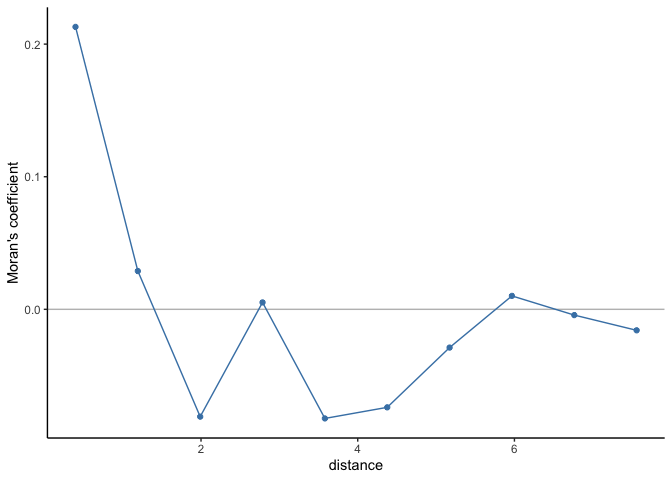
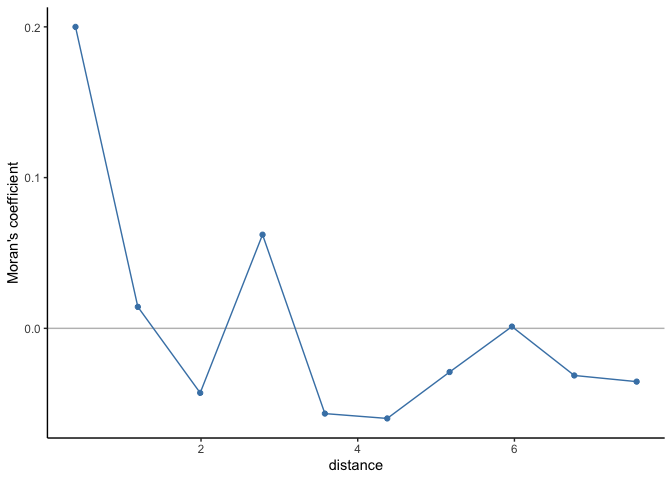
knit Erika's lab 5 fixes

diff --git a/_site/lab-5/index.html b/_site/lab-5/index.html
@@ -108,6 +108,28 @@ images displayed.</p>
 ##     Matern
 </code></pre></div></div>
 
+<div class="language-r highlighter-rouge"><div class="highlight"><pre class="highlight"><code><span class="n">library</span><span class="p">(</span><span class="n">geodata</span><span class="p">)</span><span class="w">
+</span></code></pre></div></div>
+
+<div class="language-plaintext highlighter-rouge"><div class="highlight"><pre class="highlight"><code>## Loading required package: terra
+
+## terra 1.7.18
+
+## 
+## Attaching package: 'terra'
+
+## The following object is masked from 'package:fields':
+## 
+##     describe
+
+## 
+## Attaching package: 'geodata'
+
+## The following object is masked from 'package:fields':
+## 
+##     world
+</code></pre></div></div>
+
 <div class="language-r highlighter-rouge"><div class="highlight"><pre class="highlight"><code><span class="n">source</span><span class="p">(</span><span class="s2">"https://raw.githubusercontent.com/HughSt/HughSt.github.io/master/course_materials/week6/Lab_files/R%20Files/background_functions.R"</span><span class="p">)</span><span class="w">
 </span></code></pre></div></div>
 
@@ -474,8 +496,13 @@ data into \(k\) subsets. Then we train the model \(k\) times, each one
 using only 4 of the groups, and computing some performance metric on the
 left out group. The performance metric could be the sum of squared
 errors or any other sensible metric depending on the application. Below
-we show a diagram of a 5-fold cross validation.
-<img src="../images/week-6/k_fold_cv-1.png" alt="" /></p>
+we show a diagram of a 5-fold cross validation.</p>
+
+<div class="language-plaintext highlighter-rouge"><div class="highlight"><pre class="highlight"><code>## Warning: Using `size` aesthetic for lines was deprecated in ggplot2 3.4.0.
+## ℹ Please use `linewidth` instead.
+</code></pre></div></div>
+
+<p><img src="../images/week-6/k_fold_cv-1.png" alt="" /></p>
 
 <h3 id="glm-surface-trend-vs-geostatistic-model">GLM Surface Trend vs Geostatistic Model</h3>
 
@@ -547,11 +574,15 @@ of successes out of a number of trials.</p>
 
 <div class="language-r highlighter-rouge"><div class="highlight"><pre class="highlight"><code><span class="c1"># Load data</span><span class="w">
 </span><span class="n">ETH_malaria_data</span><span class="w"> </span><span class="o">&lt;-</span><span class="w"> </span><span class="n">read.csv</span><span class="p">(</span><span class="s2">"https://raw.githubusercontent.com/phw272c/phw272c.github.io/master/data/mal_data_eth_2009_no_dups.csv"</span><span class="p">,</span><span class="w"> </span><span class="n">header</span><span class="o">=</span><span class="nb">T</span><span class="p">)</span><span class="w"> </span><span class="c1"># Case data</span><span class="w">
-</span><span class="n">ETH_Adm_1</span><span class="w"> </span><span class="o">&lt;-</span><span class="w"> </span><span class="n">raster</span><span class="o">::</span><span class="n">getData</span><span class="p">(</span><span class="s2">"GADM"</span><span class="p">,</span><span class="w"> </span><span class="n">country</span><span class="o">=</span><span class="s2">"ETH"</span><span class="p">,</span><span class="w"> </span><span class="n">level</span><span class="o">=</span><span class="m">1</span><span class="p">)</span><span class="w"> </span><span class="c1"># Admin boundaries</span><span class="w">
+</span><span class="c1">#OLD ETH_Adm_1 &lt;- raster::getData("GADM", country="ETH", level=1) # Admin boundaries</span><span class="w">
+</span><span class="c1">#NEW</span><span class="w">
+</span><span class="n">ETH_Adm_1</span><span class="w"> </span><span class="o">&lt;-</span><span class="w"> </span><span class="n">as</span><span class="p">(</span><span class="n">gadm</span><span class="p">(</span><span class="n">country</span><span class="w"> </span><span class="o">=</span><span class="w"> </span><span class="s2">"ETH"</span><span class="p">,</span><span class="w"> </span><span class="n">level</span><span class="o">=</span><span class="m">1</span><span class="p">,</span><span class="w"> </span><span class="n">path</span><span class="o">=</span><span class="n">tempdir</span><span class="p">()),</span><span class="w"> </span><span class="s2">"Spatial"</span><span class="p">)</span><span class="w">
+</span><span class="nf">class</span><span class="p">(</span><span class="n">ETH_Adm_1</span><span class="p">)</span><span class="w">
 </span></code></pre></div></div>
 
-<div class="language-plaintext highlighter-rouge"><div class="highlight"><pre class="highlight"><code>## Warning in raster::getData("GADM", country = "ETH", level = 1): getData will be removed in a future version of raster
-## . Please use the geodata package instead
+<div class="language-plaintext highlighter-rouge"><div class="highlight"><pre class="highlight"><code>## [1] "SpatialPolygonsDataFrame"
+## attr(,"package")
+## [1] "sp"
 </code></pre></div></div>
 
 <div class="language-r highlighter-rouge"><div class="highlight"><pre class="highlight"><code><span class="n">Oromia</span><span class="w"> </span><span class="o">&lt;-</span><span class="w"> </span><span class="n">subset</span><span class="p">(</span><span class="n">ETH_Adm_1</span><span class="p">,</span><span class="w"> </span><span class="n">NAME_1</span><span class="o">==</span><span class="s2">"Oromia"</span><span class="p">)</span><span class="w">
@@ -567,14 +598,13 @@ of successes out of a number of trials.</p>
 first obtain predictors as rasters at a common resolution/extent. In
 this example, we are going to use two of the
 <a href="https://www.worldclim.org/bioclim">Bioclim</a> layers, accessible using
-the <code class="language-plaintext highlighter-rouge">getData</code> function in the raster package.</p>
+the geodata package.</p>
 
-<div class="language-r highlighter-rouge"><div class="highlight"><pre class="highlight"><code><span class="n">bioclim_layers</span><span class="w"> </span><span class="o">&lt;-</span><span class="w"> </span><span class="n">getData</span><span class="p">(</span><span class="s1">'worldclim'</span><span class="p">,</span><span class="w"> </span><span class="n">var</span><span class="o">=</span><span class="s1">'bio'</span><span class="p">,</span><span class="w"> </span><span class="n">res</span><span class="o">=</span><span class="m">0.5</span><span class="p">,</span><span class="w"> </span><span class="n">lon</span><span class="o">=</span><span class="m">38.7578</span><span class="p">,</span><span class="w"> </span><span class="n">lat</span><span class="o">=</span><span class="m">8.9806</span><span class="p">)</span><span class="w"> </span><span class="c1"># lng/lat for Addis Ababa</span><span class="w">
+<div class="language-r highlighter-rouge"><div class="highlight"><pre class="highlight"><code><span class="c1">#OLD bioclim_layers &lt;- getData('worldclim', var='bio', res=0.5, lon=38.7578, lat=8.9806) # lng/lat for Addis Ababa</span><span class="w">
+</span><span class="c1">#NEW</span><span class="w">
+
+</span><span class="n">bioclim_layers</span><span class="w"> </span><span class="o">&lt;-</span><span class="w"> </span><span class="n">as</span><span class="p">(</span><span class="n">worldclim_tile</span><span class="p">(</span><span class="n">var</span><span class="w"> </span><span class="o">=</span><span class="w"> </span><span class="s2">"bio"</span><span class="p">,</span><span class="w"> </span><span class="n">res</span><span class="w"> </span><span class="o">=</span><span class="w"> </span><span class="m">0.5</span><span class="p">,</span><span class="w"> </span><span class="n">lon</span><span class="w"> </span><span class="o">=</span><span class="w"> </span><span class="m">38.7578</span><span class="p">,</span><span class="w"> </span><span class="n">lat</span><span class="w"> </span><span class="o">=</span><span class="w"> </span><span class="m">8.9806</span><span class="p">,</span><span class="w"> </span><span class="n">path</span><span class="o">=</span><span class="n">tempdir</span><span class="p">()),</span><span class="w"> </span><span class="s2">"Raster"</span><span class="p">)</span><span class="w"> </span><span class="c1"># lng/lat for Addis Ababa</span><span class="w">
 </span></code></pre></div></div>
-
-<div class="language-plaintext highlighter-rouge"><div class="highlight"><pre class="highlight"><code>## Warning in getData("worldclim", var = "bio", res = 0.5, lon = 38.7578, lat = 8.9806): getData will be removed in a future version of raster
-## . Please use the geodata package instead
-</code></pre></div></div>
 
 <p>We can crop these layers to make them a little easier to handle</p>
 
@@ -602,13 +632,13 @@ precipitation) at the observation points</p>
 ## Estimation of fixed effects by ML.
 ## family: binomial( link = logit ) 
 ##  ------------ Fixed effects (beta) ------------
-##               Estimate  Cond. SE t-value
-## (Intercept) -8.3846190 1.6273198  -5.152
-## bioclim1     0.0113079 0.0071619   1.579
-## bioclim12    0.0003218 0.0002892   1.113
+##             Estimate Cond. SE t-value
+## (Intercept) -17.6362  1.72185 -10.243
+## bioclim1      0.2119  0.05994   3.535
+## bioclim12     0.5422  0.08743   6.202
 ##  ------------- Likelihood values  -------------
-##                        logLik
-## logL               : -225.369
+##                         logLik
+## logL               : -204.0366
 </code></pre></div></div>
 
 <p>And take a look at spatial autocorrelation in the residuals</p>
@@ -624,16 +654,16 @@ precipitation) at the observation points</p>
 
 <div class="language-plaintext highlighter-rouge"><div class="highlight"><pre class="highlight"><code>## Moran I statistic 
 ##       dist.class         coef      p.value    n
-##  [1,]  0.3979675  0.212998345 5.839497e-18 3904
-##  [2,]  1.1937029  0.028869826 3.706873e-02 5192
-##  [3,]  1.9894379 -0.080946573 9.999812e-01 5680
-##  [4,]  2.7851728  0.005202035 3.088693e-01 4976
-##  [5,]  3.5809077 -0.082287239 9.999446e-01 5078
-##  [6,]  4.3766427 -0.073913147 9.999694e-01 5896
-##  [7,]  5.1723776 -0.028848437 8.762919e-01 4890
-##  [8,]  5.9681126  0.010132650 2.753585e-01 3694
-##  [9,]  6.7638475 -0.004350064 4.290928e-01 1412
-## [10,]  7.5595825 -0.015829056 4.321541e-01  284
+##  [1,]  0.3979675  0.199980480 8.240172e-16 3904
+##  [2,]  1.1937029  0.014247182 1.577427e-01 5192
+##  [3,]  1.9894379 -0.042814027 9.790294e-01 5680
+##  [4,]  2.7851728  0.062142108 5.417610e-04 4976
+##  [5,]  3.5809077 -0.056543628 9.946848e-01 5078
+##  [6,]  4.3766427 -0.059764427 9.991960e-01 5896
+##  [7,]  5.1723776 -0.028973619 8.756756e-01 4890
+##  [8,]  5.9681126  0.001175213 3.946801e-01 3694
+##  [9,]  6.7638475 -0.031256195 7.395092e-01 1412
+## [10,]  7.5595825 -0.035348306 5.503216e-01  284
 </code></pre></div></div>
 
 <div class="language-r highlighter-rouge"><div class="highlight"><pre class="highlight"><code><span class="c1"># Plot correlogram</span><span class="w">
@@ -666,22 +696,22 @@ spatial model.</p>
 ## Estimation of lambda by 'outer' ML, maximizing logL.
 ## family: binomial( link = logit ) 
 ##  ------------ Fixed effects (beta) ------------
-##               Estimate Cond. SE t-value
-## (Intercept) -14.045555 6.035854 -2.3270
-## bioclim1      0.029817 0.024988  1.1932
-## bioclim12    -0.000203 0.001364 -0.1489
+##             Estimate Cond. SE t-value
+## (Intercept) -19.0181   6.8474 -2.7774
+## bioclim1      0.3693   0.2179  1.6945
+## bioclim12     0.2473   0.3450  0.7169
 ##  --------------- Random effects ---------------
 ## Family: gaussian( link = identity ) 
 ##                    --- Correlation parameters:
-##     1.nu    1.rho 
-## 0.439513 1.659388 
+##      1.nu     1.rho 
+## 0.4388976 1.7275925 
 ##            --- Variance parameters ('lambda'):
 ## lambda = var(u) for u ~ Gaussian; 
-##    latitude .  :  4.695  
+##    latitude .  :  4.383  
 ## # of obs: 203; # of groups: latitude ., 203 
 ##  ------------- Likelihood values  -------------
 ##                         logLik
-## logL       (p_v(h)): -106.4314
+## logL       (p_v(h)): -105.8655
 </code></pre></div></div>
 
 <p>We can generate a quick scatter plot of observed vs fitted values</p>
@@ -765,6 +795,9 @@ below.</p>
 </span><span class="p">}</span><span class="w">
 </span></code></pre></div></div>
 
+<div class="language-plaintext highlighter-rouge"><div class="highlight"><pre class="highlight"><code>## Iterative algorithm converges slowly. See help('convergence') for suggestions.
+</code></pre></div></div>
+
 <p>Here is a summary of the results. The covariates are indexed as: 1 -
 bioclim1, 2 - bioclim12.</p>
 
@@ -772,8 +805,8 @@ bioclim1, 2 - bioclim12.</p>
 </span></code></pre></div></div>
 
 <div class="language-plaintext highlighter-rouge"><div class="highlight"><pre class="highlight"><code>##        MSE Covariates
-## 1 1.462020        1,2
-## 2 1.467664          1
+## 1 1.482463        1,2
+## 2 1.532784          1
 </code></pre></div></div>
 
 <p>According to this results the best model according to the lowest MSE is

diff --git a/_posts/2023-03-09-lab-5.md b/_posts/2023-03-09-lab-5.md
@@ -88,6 +88,28 @@ library(spaMM)
     ##     Matern
 
 ``` r
+library(geodata)
+```
+
+    ## Loading required package: terra
+
+    ## terra 1.7.18
+
+    ## 
+    ## Attaching package: 'terra'
+
+    ## The following object is masked from 'package:fields':
+    ## 
+    ##     describe
+
+    ## 
+    ## Attaching package: 'geodata'
+
+    ## The following object is masked from 'package:fields':
+    ## 
+    ##     world
+
+``` r
 source("https://raw.githubusercontent.com/HughSt/HughSt.github.io/master/course_materials/week6/Lab_files/R%20Files/background_functions.R")
 ```
 
@@ -460,6 +482,10 @@ using only 4 of the groups, and computing some performance metric on the
 left out group. The performance metric could be the sum of squared
 errors or any other sensible metric depending on the application. Below
 we show a diagram of a 5-fold cross validation.
+
+    ## Warning: Using `size` aesthetic for lines was deprecated in ggplot2 3.4.0.
+    ## ℹ Please use `linewidth` instead.
+
 ![](../images/week-6/k_fold_cv-1.png)
 
 ### GLM Surface Trend vs Geostatistic Model
@@ -534,11 +560,15 @@ of successes out of a number of trials.
 ``` r
 # Load data
 ETH_malaria_data <- read.csv("https://raw.githubusercontent.com/phw272c/phw272c.github.io/master/data/mal_data_eth_2009_no_dups.csv", header=T) # Case data
-ETH_Adm_1 <- raster::getData("GADM", country="ETH", level=1) # Admin boundaries
+#OLD ETH_Adm_1 <- raster::getData("GADM", country="ETH", level=1) # Admin boundaries
+#NEW
+ETH_Adm_1 <- as(gadm(country = "ETH", level=1, path=tempdir()), "Spatial")
+class(ETH_Adm_1)
 ```
 
-    ## Warning in raster::getData("GADM", country = "ETH", level = 1): getData will be removed in a future version of raster
-    ## . Please use the geodata package instead
+    ## [1] "SpatialPolygonsDataFrame"
+    ## attr(,"package")
+    ## [1] "sp"
 
 ``` r
 Oromia <- subset(ETH_Adm_1, NAME_1=="Oromia")
@@ -554,14 +584,14 @@ To model and predict malaria prevalence across Oromia State, we need to
 first obtain predictors as rasters at a common resolution/extent. In
 this example, we are going to use two of the
 [Bioclim](https://www.worldclim.org/bioclim) layers, accessible using
-the `getData` function in the raster package.
+the geodata package.
 
 ``` r
-bioclim_layers <- getData('worldclim', var='bio', res=0.5, lon=38.7578, lat=8.9806) # lng/lat for Addis Ababa
-```
+#OLD bioclim_layers <- getData('worldclim', var='bio', res=0.5, lon=38.7578, lat=8.9806) # lng/lat for Addis Ababa
+#NEW
 
-    ## Warning in getData("worldclim", var = "bio", res = 0.5, lon = 38.7578, lat = 8.9806): getData will be removed in a future version of raster
-    ## . Please use the geodata package instead
+bioclim_layers <- as(worldclim_tile(var = "bio", res = 0.5, lon = 38.7578, lat = 8.9806, path=tempdir()), "Raster") # lng/lat for Addis Ababa
+```
 
 We can crop these layers to make them a little easier to handle
 
@@ -592,13 +622,13 @@ summary(prev_eth_non_spatial)
     ## Estimation of fixed effects by ML.
     ## family: binomial( link = logit ) 
     ##  ------------ Fixed effects (beta) ------------
-    ##               Estimate  Cond. SE t-value
-    ## (Intercept) -8.3846190 1.6273198  -5.152
-    ## bioclim1     0.0113079 0.0071619   1.579
-    ## bioclim12    0.0003218 0.0002892   1.113
+    ##             Estimate Cond. SE t-value
+    ## (Intercept) -17.6362  1.72185 -10.243
+    ## bioclim1      0.2119  0.05994   3.535
+    ## bioclim12     0.5422  0.08743   6.202
     ##  ------------- Likelihood values  -------------
-    ##                        logLik
-    ## logL               : -225.369
+    ##                         logLik
+    ## logL               : -204.0366
 
 And take a look at spatial autocorrelation in the residuals
 
@@ -614,16 +644,16 @@ cor_r
 
     ## Moran I statistic 
     ##       dist.class         coef      p.value    n
-    ##  [1,]  0.3979675  0.212998345 5.839497e-18 3904
-    ##  [2,]  1.1937029  0.028869826 3.706873e-02 5192
-    ##  [3,]  1.9894379 -0.080946573 9.999812e-01 5680
-    ##  [4,]  2.7851728  0.005202035 3.088693e-01 4976
-    ##  [5,]  3.5809077 -0.082287239 9.999446e-01 5078
-    ##  [6,]  4.3766427 -0.073913147 9.999694e-01 5896
-    ##  [7,]  5.1723776 -0.028848437 8.762919e-01 4890
-    ##  [8,]  5.9681126  0.010132650 2.753585e-01 3694
-    ##  [9,]  6.7638475 -0.004350064 4.290928e-01 1412
-    ## [10,]  7.5595825 -0.015829056 4.321541e-01  284
+    ##  [1,]  0.3979675  0.199980480 8.240172e-16 3904
+    ##  [2,]  1.1937029  0.014247182 1.577427e-01 5192
+    ##  [3,]  1.9894379 -0.042814027 9.790294e-01 5680
+    ##  [4,]  2.7851728  0.062142108 5.417610e-04 4976
+    ##  [5,]  3.5809077 -0.056543628 9.946848e-01 5078
+    ##  [6,]  4.3766427 -0.059764427 9.991960e-01 5896
+    ##  [7,]  5.1723776 -0.028973619 8.756756e-01 4890
+    ##  [8,]  5.9681126  0.001175213 3.946801e-01 3694
+    ##  [9,]  6.7638475 -0.031256195 7.395092e-01 1412
+    ## [10,]  7.5595825 -0.035348306 5.503216e-01  284
 
 ``` r
 # Plot correlogram
@@ -657,22 +687,22 @@ summary(prev_eth)
     ## Estimation of lambda by 'outer' ML, maximizing logL.
     ## family: binomial( link = logit ) 
     ##  ------------ Fixed effects (beta) ------------
-    ##               Estimate Cond. SE t-value
-    ## (Intercept) -14.045555 6.035854 -2.3270
-    ## bioclim1      0.029817 0.024988  1.1932
-    ## bioclim12    -0.000203 0.001364 -0.1489
+    ##             Estimate Cond. SE t-value
+    ## (Intercept) -19.0181   6.8474 -2.7774
+    ## bioclim1      0.3693   0.2179  1.6945
+    ## bioclim12     0.2473   0.3450  0.7169
     ##  --------------- Random effects ---------------
     ## Family: gaussian( link = identity ) 
     ##                    --- Correlation parameters:
-    ##     1.nu    1.rho 
-    ## 0.439513 1.659388 
+    ##      1.nu     1.rho 
+    ## 0.4388976 1.7275925 
     ##            --- Variance parameters ('lambda'):
     ## lambda = var(u) for u ~ Gaussian; 
-    ##    latitude .  :  4.695  
+    ##    latitude .  :  4.383  
     ## # of obs: 203; # of groups: latitude ., 203 
     ##  ------------- Likelihood values  -------------
     ##                         logLik
-    ## logL       (p_v(h)): -106.4314
+    ## logL       (p_v(h)): -105.8655
 
 We can generate a quick scatter plot of observed vs fitted values
 
@@ -759,6 +789,8 @@ while (num_covariates > max_covariates) {
 }
 ```
 
+    ## Iterative algorithm converges slowly. See help('convergence') for suggestions.
+
 Here is a summary of the results. The covariates are indexed as: 1 -
 bioclim1, 2 - bioclim12.
 
@@ -767,8 +799,8 @@ print(board)
 ```
 
     ##        MSE Covariates
-    ## 1 1.462020        1,2
-    ## 2 1.467664          1
+    ## 1 1.482463        1,2
+    ## 2 1.532784          1
 
 According to this results the best model according to the lowest MSE is
 achieved when using both bioclim1 and bioclim12.
